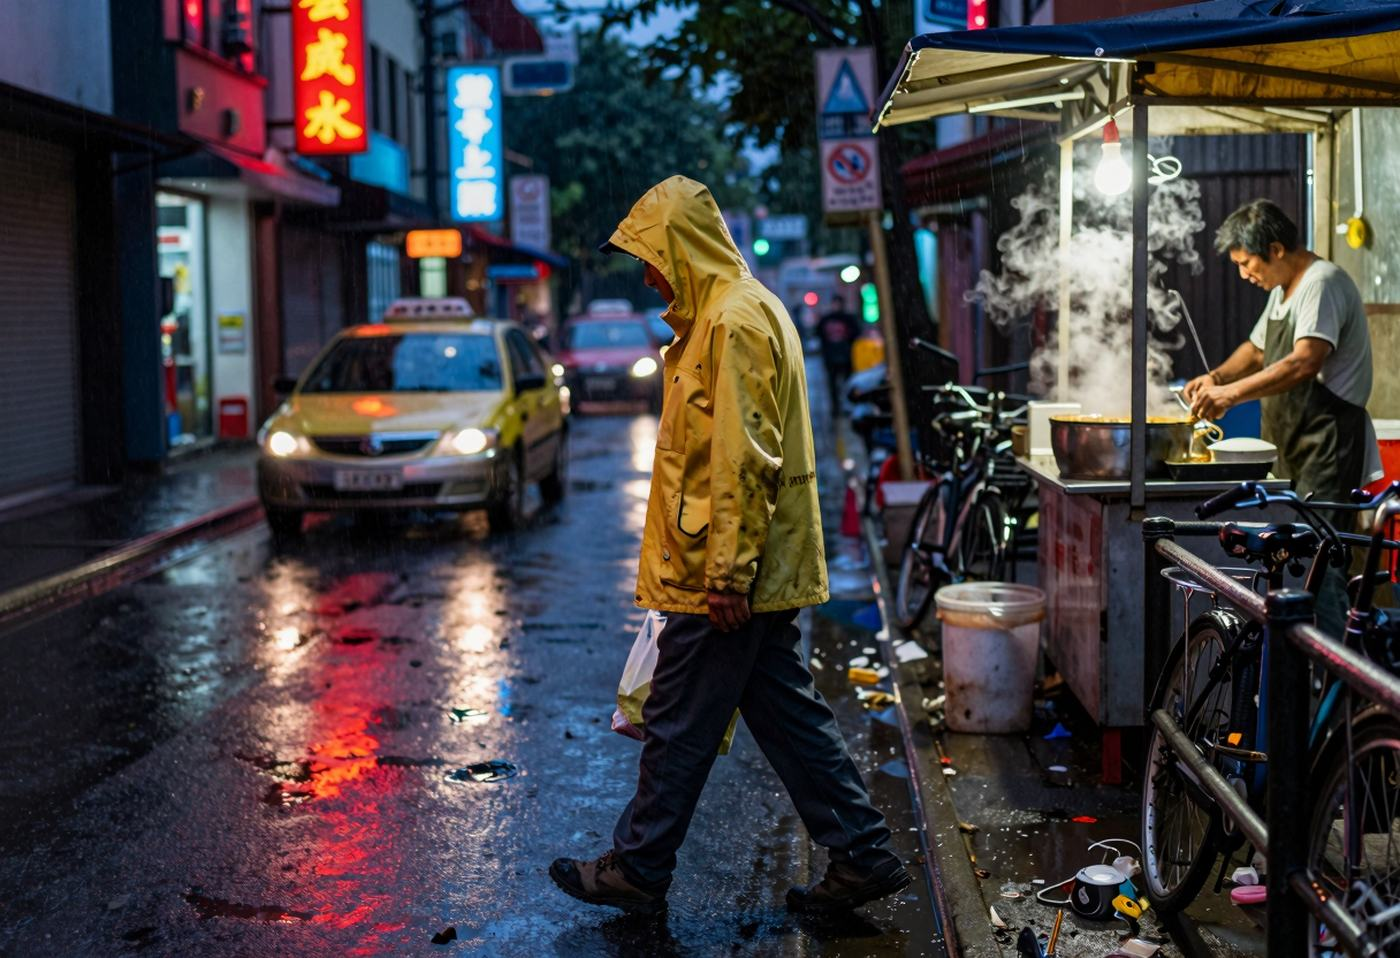
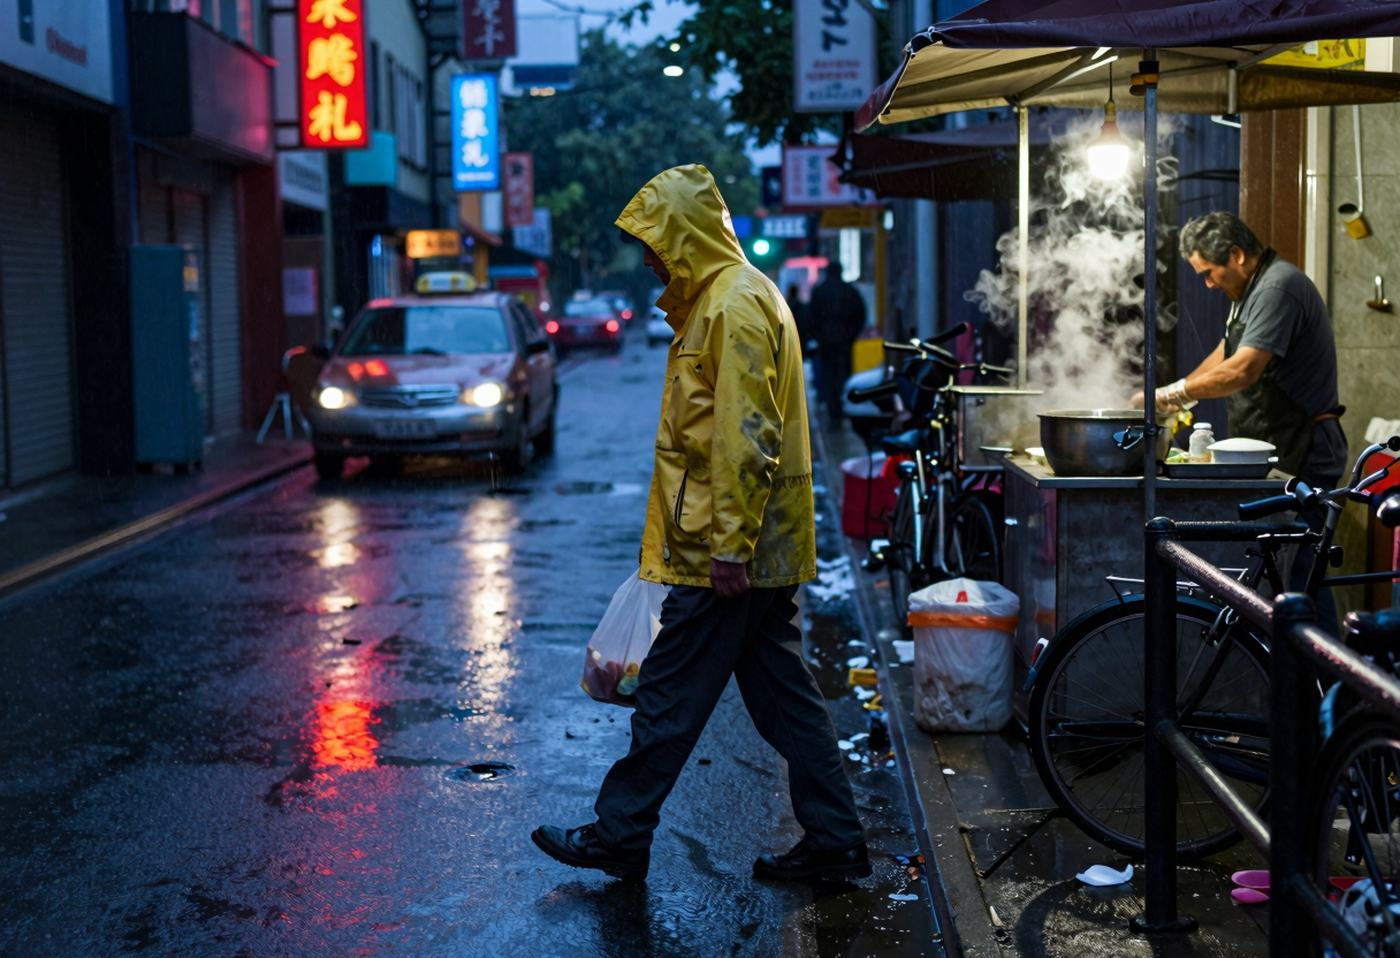
Velvia: neutral gray balance and slight underexposure, closer to how the film renders

diff --git a/content/blog/moss-image-film-camera-prompts.md b/content/blog/moss-image-film-camera-prompts.md
@@ -234,18 +234,18 @@ Deeper reds and darker shadows. Subtle.
 ### Fuji Velvia 50
 
 ```
-Color slide film photo, ultra-saturated color, deep rich reds and warm yellows, lush cool greens and deep blues, ruddy pink skin, high contrast, shadows dropping quickly to pure black, razor-sharp detail, almost no grain.
+Color slide film photo, slightly underexposed, the most vivid saturated color, intensely vivid deep cool greens, rich blues and deep luminous reds, neutral gray balance, high contrast, shadows dropping quickly to pure black, razor-sharp detail, almost no grain.
 ```
 
 Negative prompt, after MOSS's usual one:
 
 ```
-muted colors, neon green, yellow-green cast, lifted faded blacks, matte, low contrast, soft focus, visible grain, HDR
+muted colors, warm golden cast, yellow cast, neon green, lifted faded blacks, matte, low contrast, overexposed, soft focus, visible grain, HDR
 ```
 
 ![Fuji Velvia 50](/images/moss-film/r1/film-fuji_velvia_50-v2.jpg)
 
-Deep reds, a dark cool-green shutter and ruddy skin. My first wording gave a neon green shutter and a yellow-green wall, and someone who has shot Velvia rightly called that out. The real film holds deeper blacks than this, and wording alone didn't get MOSS all the way there.
+Deep reds, a dark cool-green shutter, a neutral wall and deep shadows. My first wording gave a neon green shutter and a yellow-green wall, and someone who has shot Velvia rightly called that out. Asking for it "slightly underexposed" made the biggest difference, which is also how slide shooters get the most from this film.
 
 ### Cross-processed slide
 

diff --git a/content/blog/z-image-turbo-film-camera-recipes.md b/content/blog/z-image-turbo-film-camera-recipes.md
@@ -203,7 +203,7 @@ Deep blue sky and dense reds.
 ### Fuji Velvia 50
 
 ```
-Color slide film photo, ultra-saturated color, deep rich reds and warm yellows, lush cool greens and deep blues, ruddy pink skin, high contrast, shadows dropping quickly to pure black, razor-sharp detail, almost no grain.
+Color slide film photo, slightly underexposed, the most vivid saturated color, intensely vivid deep cool greens, rich blues and deep luminous reds, neutral gray balance, high contrast, shadows dropping quickly to pure black, razor-sharp detail, almost no grain.
 ```
 
 :::photos
@@ -211,7 +211,7 @@ base: /images/film-sim/r3/film-fuji_velvia_50-v2
 alt: Fuji Velvia 50
 :::
 
-Strong color and hard contrast: deep reds, cool greens and blacks that drop away fast. My first wording missed this, and someone who has shot Velvia corrected me on its greens and blacks. Real Velvia is rarely used for portraits because it turns skin ruddy, and you can see that here.
+Deep reds, cool greens, a neutral balance and blacks that drop away fast. My first wording pushed everything warm, and someone who has shot Velvia corrected me. Asking for it "slightly underexposed" made the biggest difference, which is also how slide shooters get the most from this film.
 
 ### Cross-processed slide
 
